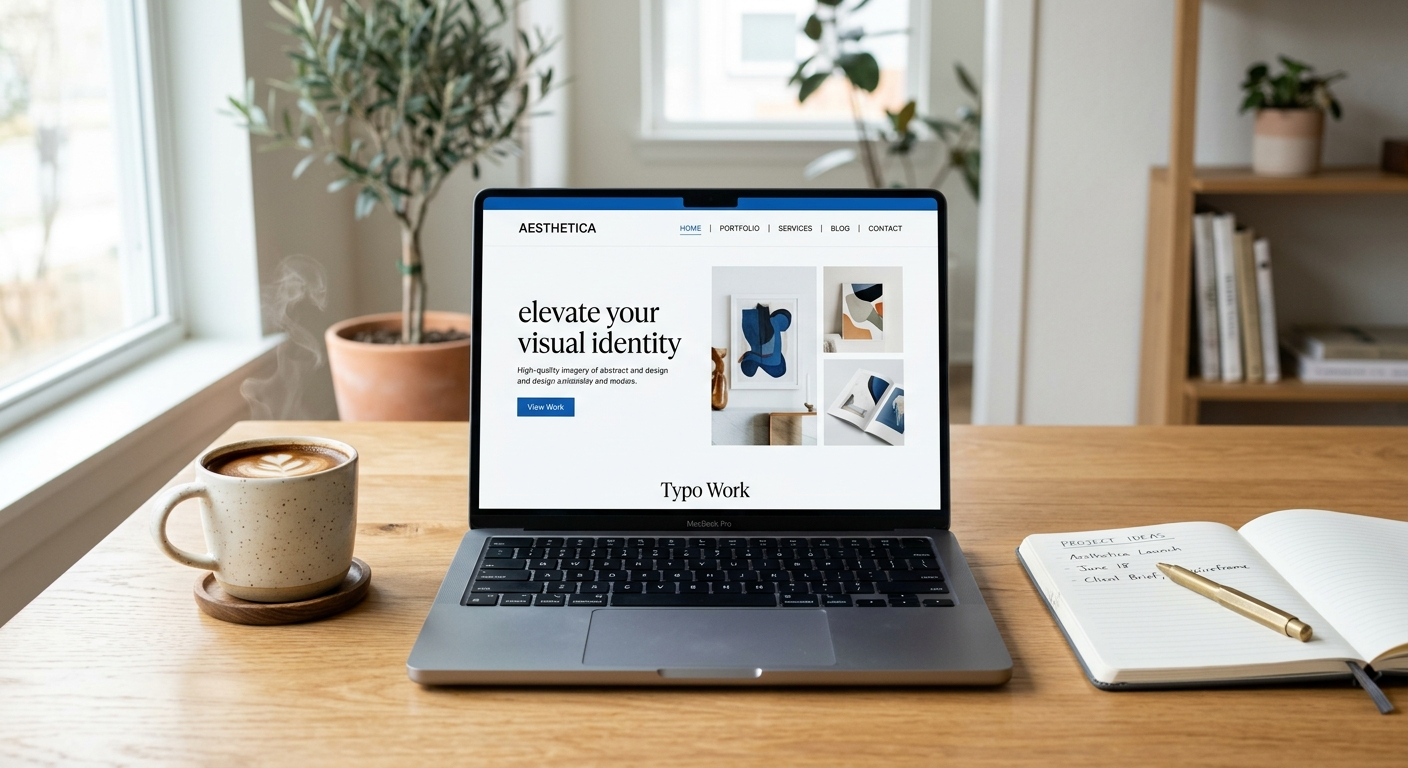
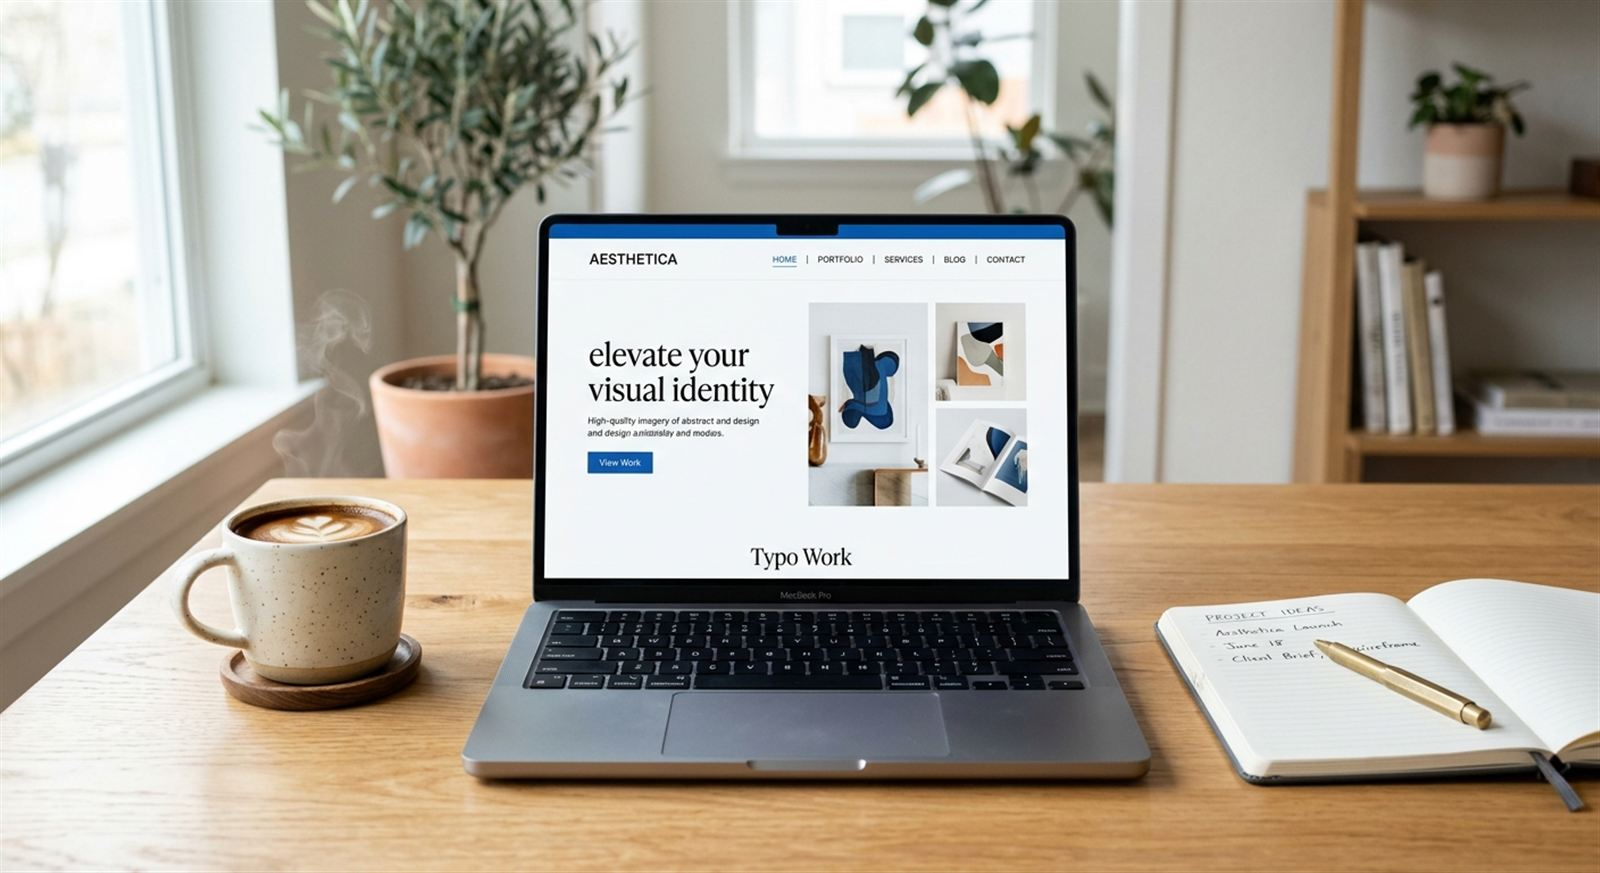
mise à jour de mon approche

diff --git a/src/components/Services.tsx b/src/components/Services.tsx
@@ -1,4 +1,4 @@
-import { Layout, Smartphone, Search } from "lucide-react";
+import { Layout, UserRound, TrendingUp } from "lucide-react";
 import { motion } from "motion/react";
 
 const fadeInUp = {
@@ -19,37 +19,37 @@ const staggerContainer = {
 export function Services() {
   const services = [
     {
-      title: "Une image qui vous ressemble",
-      description: "Pas de template, pas de déjà-vu. Un site dessiné autour de votre personnalité, de votre métier et des personnes que vous voulez convaincre.",
+      title: "Site vitrine premium",
+      description: "Votre activité présentée pour inspirer confiance dès la première visite : positionnement, design sur-mesure et textes pensés pour convertir.",
       icon: <Layout className="w-8 h-8 text-primary mb-4" />,
     },
     {
-      title: "Une expérience qui rassure",
-      description: "Vos visiteurs jugent en silence : fluidité, lisibilité, cohérence — sur ordinateur comme sur téléphone. Chaque détail leur dit que vous êtes sérieux.",
-      icon: <Smartphone className="w-8 h-8 text-primary mb-4" />,
+      title: "Portfolio & site personnel",
+      description: "Votre parcours, vos travaux et vos preuves rassemblés dans une vitrine qui pose votre autorité et donne envie de travailler avec vous.",
+      icon: <UserRound className="w-8 h-8 text-primary mb-4" />,
     },
     {
-      title: "Être trouvé au bon moment",
-      description: "Un site structuré pour que les moteurs de recherche vous présentent aux bonnes personnes — celles qui vous cherchent déjà.",
-      icon: <Search className="w-8 h-8 text-primary mb-4" />,
+      title: "Landing page de lancement",
+      description: "Une page unique construite pour vendre — formation, offre, événement. Chaque section guide votre visiteur vers l'action.",
+      icon: <TrendingUp className="w-8 h-8 text-primary mb-4" />,
     },
   ];
 
   return (
     <motion.section 
       id="services"
-      className="py-24 px-6 max-w-7xl mx-auto flex flex-col items-center text-center"
+      className="py-24 px-6 max-w-7xl mx-auto flex flex-col items-center text-center scroll-mt-20"
       initial="hidden"
       whileInView="visible"
       viewport={{ once: true, margin: "-50px" }}
       variants={staggerContainer}
     >
-      <motion.h2 variants={fadeInUp} className="font-serif text-3xl md:text-4xl font-bold mb-4">Ce que votre site doit faire pour vous</motion.h2>
+      <motion.h2 variants={fadeInUp} className="font-serif text-3xl md:text-4xl font-bold mb-4">Ce que je crée pour vous</motion.h2>
       <motion.p variants={fadeInUp} className="text-gray-400 text-sm md:text-base mb-16 max-w-lg">
-        Trois dimensions, un seul but : inspirer confiance à chaque visite.
+        Trois offres claires, un même niveau d'exigence — et toujours du sur-mesure.
       </motion.p>
 
-      <div className="grid grid-cols-1 md:grid-cols-3 gap-6 w-full mb-12">
+      <div className="grid grid-cols-1 md:grid-cols-3 gap-6 w-full mb-10">
         {services.map((service, index) => (
           <motion.div variants={fadeInUp} key={index} className="bg-bg-card p-8 rounded-2xl border border-white/5 text-left flex flex-col hover:border-white/10 transition-colors">
             {service.icon}
@@ -61,7 +61,14 @@ export function Services() {
         ))}
       </div>
       
-      <motion.a 
+      <motion.div variants={fadeInUp} className="max-w-3xl mb-12 px-2">
+        <p className="text-sm md:text-base text-gray-400 leading-relaxed">
+          <span className="text-white font-semibold">Chaque projet inclut :</span>{" "}
+          stratégie et positionnement · maquette sur-mesure validée par vous · développement complet · optimisation Google · mise en ligne · formation à la prise en main
+        </p>
+      </motion.div>
+
+      <motion.a
         href="https://wa.me/2290194118320?text=Bonjour%20Dylane%2C%20je%20viens%20de%20voir%20votre%20site%20et%20j'aimerais%20%C3%A9changer%20sur%20mon%20image%20en%20ligne." target="_blank" rel="noopener noreferrer"
         variants={fadeInUp} 
         className="group relative overflow-hidden px-8 py-3 text-base font-semibold text-black bg-primary rounded-full hover:bg-primary-hover transition-all hover:scale-105 active:scale-95 shadow-[0_0_15px_rgba(250,204,21,0.3)] flex items-center justify-center"

diff --git a/src/components/Testimonials.tsx b/src/components/Testimonials.tsx
@@ -38,7 +38,7 @@ export function Testimonials() {
   return (
     <motion.section
       id="temoignages"
-      className="py-24 px-6 max-w-7xl mx-auto"
+      className="py-24 px-6 max-w-7xl mx-auto scroll-mt-20"
       initial="hidden"
       whileInView="visible"
       viewport={{ once: true, margin: "-50px" }}
@@ -62,8 +62,16 @@ export function Testimonials() {
           <motion.figure
             key={testimonial.author}
             variants={fadeInUp}
-            className="group relative bg-bg-card border border-white/5 rounded-2xl p-8 md:p-12 text-center transition-all duration-300 hover:border-primary/20 hover:shadow-[0_20px_40px_rgba(0,0,0,0.35)]"
+            className="group relative overflow-hidden rounded-3xl border border-white/10 bg-white/[0.06] backdrop-blur-2xl p-8 md:p-12 text-center shadow-[0_8px_32px_rgba(0,0,0,0.45)] transition-all duration-500 hover:border-primary/30 hover:shadow-[0_20px_60px_rgba(0,0,0,0.55)]"
           >
+            {/* Reflets liquid glass */}
+            <div aria-hidden="true" className="absolute inset-0 rounded-3xl bg-[linear-gradient(135deg,rgba(255,255,255,0.12)_0%,rgba(255,255,255,0.02)_35%,transparent_65%)] pointer-events-none"></div>
+            <div aria-hidden="true" className="absolute -top-24 -right-24 w-72 h-72 rounded-full bg-primary/10 blur-3xl pointer-events-none"></div>
+            <div aria-hidden="true" className="absolute inset-0 rounded-3xl overflow-hidden pointer-events-none">
+              <div className="absolute top-0 h-full w-1/3 -skew-x-12 bg-gradient-to-r from-transparent via-white/[0.07] to-transparent -left-1/2 group-hover:left-[130%] transition-[left] duration-1000 ease-in-out"></div>
+            </div>
+
+            <div className="relative z-10">
             <div className="font-serif text-6xl leading-[0.5] text-primary/25 select-none pointer-events-none mb-6" aria-hidden="true">
               "
             </div>
@@ -92,6 +100,7 @@ export function Testimonials() {
                 <div className="text-gray-500 text-sm mt-2">{testimonial.role}</div>
               </div>
             </figcaption>
+            </div>
           </motion.figure>
         ))}
       </div>

diff --git a/src/components/Navbar.tsx b/src/components/Navbar.tsx
@@ -21,7 +21,7 @@ export function Navbar() {
         <nav className="hidden md:flex items-center space-x-8 text-sm font-medium text-gray-300">
           <a href="/#" className="hover:text-primary transition-colors">Accueil</a>
           <a href="/#a-propos" className="hover:text-primary transition-colors">Mon approche</a>
-          <a href="/#services" className="hover:text-primary transition-colors">Services</a>
+          <a href="/#services" className="hover:text-primary transition-colors">Offres</a>
           <a href="/#processus" className="hover:text-primary transition-colors">Processus</a>
           <Link to="/realisations" className="hover:text-primary transition-colors">Réalisations</Link>
         </nav>
@@ -51,7 +51,7 @@ export function Navbar() {
         <div className="md:hidden absolute top-full left-0 w-full bg-bg-card border-b border-white/10 shadow-2xl py-4 px-6 flex flex-col space-y-2 animate-in slide-in-from-top-2 duration-200">
           <a href="/#" className="block text-gray-300 hover:text-primary hover:bg-white/5 rounded-lg px-4 py-3 transition-colors font-medium" onClick={() => setIsOpen(false)}>Accueil</a>
           <a href="/#a-propos" className="block text-gray-300 hover:text-primary hover:bg-white/5 rounded-lg px-4 py-3 transition-colors font-medium" onClick={() => setIsOpen(false)}>Mon approche</a>
-          <a href="/#services" className="block text-gray-300 hover:text-primary hover:bg-white/5 rounded-lg px-4 py-3 transition-colors font-medium" onClick={() => setIsOpen(false)}>Services</a>
+          <a href="/#services" className="block text-gray-300 hover:text-primary hover:bg-white/5 rounded-lg px-4 py-3 transition-colors font-medium" onClick={() => setIsOpen(false)}>Offres</a>
           <a href="/#processus" className="block text-gray-300 hover:text-primary hover:bg-white/5 rounded-lg px-4 py-3 transition-colors font-medium" onClick={() => setIsOpen(false)}>Processus</a>
           <Link to="/realisations" className="block text-gray-300 hover:text-primary hover:bg-white/5 rounded-lg px-4 py-3 transition-colors font-medium" onClick={() => setIsOpen(false)}>Réalisations</Link>
           <div className="pt-4 pb-2">

diff --git a/src/components/Hero.tsx b/src/components/Hero.tsx
@@ -79,7 +79,7 @@ export function Hero() {
       </div>
 
       <motion.p variants={fadeInUp} className="text-gray-400 text-sm sm:text-base md:text-lg mb-8 max-w-xl mx-auto font-light leading-relaxed px-2">
-        Chaque jour, des gens vous découvrent en ligne et se font une opinion en quelques secondes. Mon travail : faire en sorte qu'elle soit à la hauteur de ce que vous valez vraiment.
+        Je crée des sites vitrines, portfolios et landing pages sur-mesure pour les coachs, consultants et experts indépendants — pour que chaque personne qui vous découvre en ligne comprenne immédiatement votre valeur.
       </motion.p>
 
       <motion.div variants={fadeInUp} className="relative flex flex-col sm:flex-row items-center justify-center gap-3 md:gap-4 mb-10 w-full max-w-[280px] sm:max-w-none mx-auto relative z-20">
@@ -184,6 +184,7 @@ export function Hero() {
             className={`w-full h-full object-cover transition-opacity duration-500 ${isPlaying ? 'opacity-100' : 'opacity-50'}`}
             loop
             playsInline
+            preload="none"
             poster={workspacePoster}
           >
             <source src="https://videos.pexels.com/video-files/3163534/3163534-uhd_3840_2160_30fps.mp4" type="video/mp4" />

diff --git a/src/components/About.tsx b/src/components/About.tsx
@@ -18,7 +18,7 @@ const staggerContainer = {
 export function About() {
   return (
     <motion.section 
-      className="py-24 md:py-32 px-6 max-w-7xl mx-auto relative" 
+      className="py-24 md:py-32 px-6 max-w-7xl mx-auto relative scroll-mt-20"
       id="a-propos"
       initial="hidden"
       whileInView="visible"
@@ -26,7 +26,7 @@ export function About() {
       variants={staggerContainer}
     >
       {/* Decorative large quote mark in background */}
-      <div className="absolute -top-10 left-0 md:left-10 text-[150px] md:text-[250px] text-white/[0.03] font-serif pointer-events-none select-none leading-none">
+      <div className="hidden md:block absolute -top-10 left-0 md:left-10 text-[150px] md:text-[250px] text-white/[0.03] font-serif pointer-events-none select-none leading-none">
         "
       </div>
 

diff --git a/src/components/Footer.tsx b/src/components/Footer.tsx
@@ -9,7 +9,7 @@ const fadeInUp = {
 
 export function Footer() {
   return (
-    <footer className="w-full bg-bg-dark pt-20 pb-8 border-t border-white/5 overflow-hidden">
+    <footer className="w-full bg-bg-dark pt-20 pb-24 md:pb-8 border-t border-white/5 overflow-hidden">
       <div className="max-w-7xl mx-auto px-6 md:px-12">
         <motion.div 
           initial="hidden"

diff --git a/src/components/Portfolio.tsx b/src/components/Portfolio.tsx
@@ -45,7 +45,7 @@ export function Portfolio() {
 
   return (
     <motion.section
-      className="py-24 px-6 w-full relative overflow-hidden" id="realisations"
+      className="py-24 px-6 w-full relative overflow-hidden scroll-mt-20" id="realisations"
       initial="hidden"
       whileInView="visible"
       viewport={{ once: true, margin: "-50px" }}

diff --git a/src/components/FinalCTA.tsx b/src/components/FinalCTA.tsx
@@ -20,7 +20,7 @@ export function FinalCTA() {
   return (
     <motion.section
       id="contact"
-      className="py-24 md:py-32 px-6 max-w-4xl mx-auto text-center"
+      className="py-24 md:py-32 px-6 max-w-4xl mx-auto text-center scroll-mt-20"
       initial="hidden"
       whileInView="visible"
       viewport={{ once: true, margin: "-50px" }}

diff --git a/src/components/Process.tsx b/src/components/Process.tsx
@@ -47,7 +47,7 @@ export function Process() {
   return (
     <motion.section 
       id="processus"
-      className="py-24 px-6 bg-bg-dark"
+      className="py-24 px-6 bg-bg-dark scroll-mt-20"
       initial="hidden"
       whileInView="visible"
       viewport={{ once: true, margin: "-50px" }}

diff --git a/src/components/ForWho.tsx b/src/components/ForWho.tsx
@@ -55,7 +55,7 @@ export function ForWho() {
   return (
     <motion.section
       id="pour-qui"
-      className="py-24 px-6 bg-bg-dark"
+      className="py-24 px-6 bg-bg-dark scroll-mt-20"
       initial="hidden"
       whileInView="visible"
       viewport={{ once: true, margin: "-50px" }}
